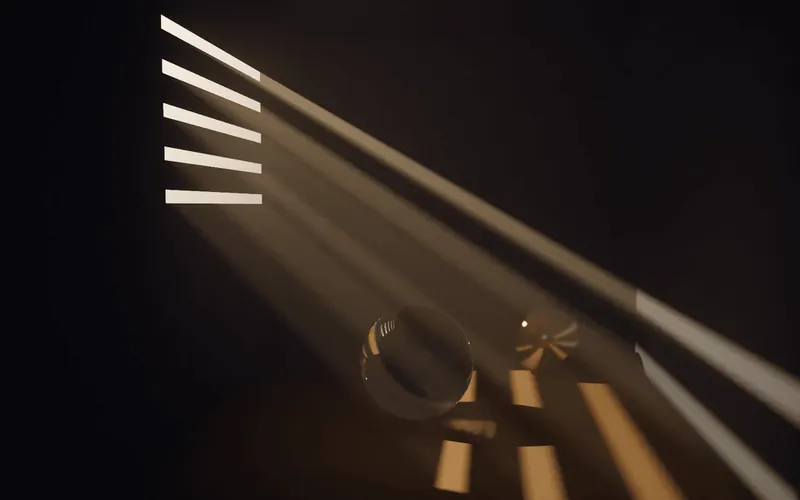
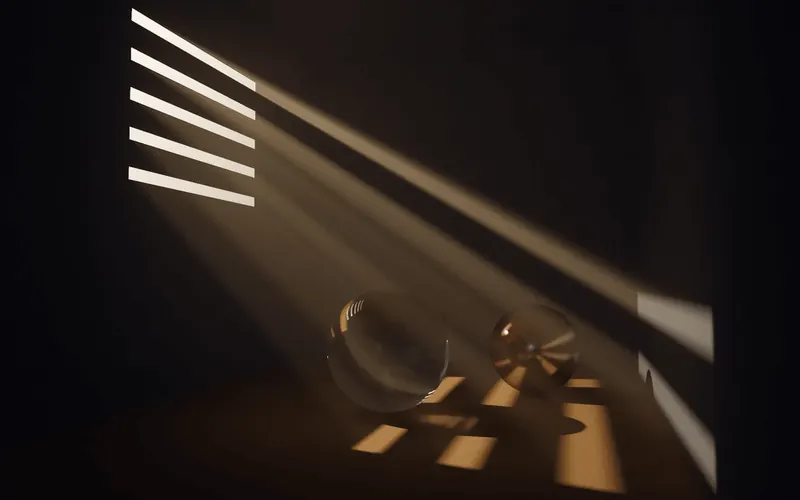
anotherRaytracer: new starting views for cornell, veach, shafts, caustics, mirrors and rgb
Each opens on the view Andrew picked: cornell, veach, caustics and rgb with
a little depth of field (0.004) focused on what he clicked; shafts with the
glass and copper balls moved into the beams; mirrors looking down the
corridor of reflections.

Scenes can set a size, which scales the lens and surface detail, for when
the starting camera's distance (the default) no longer matches the view the
scene was tuned with: mirrors and rgb keep their old scale.

Links whose settings, camera or edits match the defaults now tidy
themselves on load, so they drop out of the URL.

diff --git a/anotherRaytracer/scenes.js b/anotherRaytracer/scenes.js
@@ -130,6 +130,7 @@ const skyDome = (radius, center, brightness) => ({
  *   objects: Shape[],
  *   camera: {position: number[], target: number[], zoom: number, focus?: number},
  *   sky?: {sun: number[], haze?: number},
+ *   size?: number,
  *   defaults?: {fog?: number, fogForward?: number, fogBlue?: number, dof?: number, dispersion?: number, exposure?: number},
  * }} Scene
  * The camera orbits `target`, and starts focused on it, or `focus` away if
@@ -138,7 +139,9 @@ const skyDome = (radius, center, brightness) => ({
  * fog's density, the chance per unit of distance that light scatters off
  * it, and `dof` the lens size.
  * `sky` colors sky domes: as the real sky looks with the sun in direction
- * `sun`, and `haze` times as hazy as usual (see sky.js).
+ * `sun`, and `haze` times as hazy as usual (see sky.js). `size` scales the
+ * lens and surface detail; it defaults to the camera's distance from its
+ * target.
  */
 
 /** @type {() => Scene} */
@@ -181,7 +184,13 @@ function cornellScene() {
       sphere(10, [60, 65, 0], [0.5, 0.5, 0.5], DIFFUSE, 0.5, 30), // upper satin ball
       sphere(16, [20, 16, 160], [0.3, 0.3, 0.35], DIFFUSE, 0.6, 2000), // lower left polished ball
     ],
-    camera: {position: [50, 50, 350], target: [50, 33, 10], zoom: 0.5},
+    camera: {
+      position: [50, 50.014, 350],
+      target: [50, 33, 10],
+      zoom: 0.5,
+      focus: 262.872,
+    },
+    defaults: {dof: 0.004},
   };
 }
 
@@ -233,7 +242,13 @@ function veachScene() {
 
   return {
     objects,
-    camera: {position: eye, target: [0, 0.74, -1], zoom: 0.6},
+    camera: {
+      position: [0, 2.002, 20],
+      target: [0, 0.74, -1],
+      zoom: 0.6,
+      focus: 18.7,
+    },
+    defaults: {dof: 0.004},
   };
 }
 
@@ -276,15 +291,20 @@ function shaftsScene() {
     // Dim blue sky behind the camera, through the open front, so shadows
     // and fog outside the beams are cool
     sphere(30, [50, 60, 260], [0.8, 1.4, 3.2], LIGHT),
-    sphere(12, [45, 12, -20], [0.95, 0.95, 0.95], GLASS),
-    sphere(10, [75, 10, -60], [0.95, 0.64, 0.54], MIRROR, 0, 300), // brushed copper
+    sphere(12, [49.532, 12, -14.008], [0.95, 0.95, 0.95], GLASS),
+    sphere(10, [75.715, 10, -41.197], [0.95, 0.64, 0.54], MIRROR, 0, 300), // brushed copper
   ];
   // Blinds across the window, 5.5 tall with gaps of 2.5. Each gap lets in a
   // thin sheet of light, seen edge on from the front.
   for (let y = 40; y < 80; y += 8) objects.push(leftWall(y, y + 5.5, -50, 0));
   return {
     objects,
-    camera: {position: [60, 45, 110], target: [40, 35, -30], zoom: 0.8},
+    camera: {
+      position: [85.214, 26.04, 103.742],
+      target: [46.617, 32.276, -32.534],
+      zoom: 0.8,
+      focus: 149.874,
+    },
     defaults: {fog: 0.004},
   };
 }
@@ -312,7 +332,13 @@ function causticsScene() {
       sphere(3, [-22, 3, 18], [0.97, 0.97, 0.97], GLASS),
       sphere(6, [-32, 6, -10], [0.9, 0.9, 0.9], MIRROR),
     ],
-    camera: {position: [35, 45, 95], target: [0, 4, 10], zoom: 0.65},
+    camera: {
+      position: [35.026, 45.042, 94.969],
+      target: [0, 4, 10],
+      zoom: 0.65,
+      focus: 95.674,
+    },
+    defaults: {dof: 0.004},
   };
 }
 
@@ -352,8 +378,15 @@ function mirrorsScene() {
       sphere(7, [6, 7, 22], [0.97, 0.97, 0.97], GLASS),
       sphere(3, [-16, 3, 26], [0.2, 0.6, 0.3], DIFFUSE, 0.3, 500), // green
     ],
-    // Looking into the left mirror, orbiting a point inside the room
-    camera: {position: [20, 20, 55], target: [-5, 16, 27.5], zoom: 0.8},
+    // Orbiting a point inside the room
+    camera: {
+      position: [42.776, 20.835, 60.095],
+      target: [-5.472, 15.456, 28.498],
+      zoom: 0.8,
+    },
+    // The size of the first view the scene was tuned with, which sets the
+    // surface detail's scale
+    size: 37.4,
   };
 }
 
@@ -483,13 +516,17 @@ function rgbShadowsScene() {
       sphere(4, [16, 4, 14], [0.9, 0.9, 0.9], MIRROR),
     ],
     camera: {
-      position: [-82.95, 40.39, 47],
-      target: [7.507, 14.346, -9.059],
+      position: [-70.148, 23.137, 40.228],
+      target: [5.284, 14.904, -9.279],
       zoom: 0.6,
+      focus: 80.989,
     },
+    // The size of the first view the scene was tuned with, which sets the
+    // lens and surface detail's scale
+    size: 109.6,
     // The lights are each one primary color, so glass has no white light to
     // split into rainbows; dispersion would only add noise
-    defaults: {fog: 0.0004, dispersion: 0, exposure: -1.5, dof: 0.003},
+    defaults: {fog: 0.0004, dispersion: 0, exposure: -1.5, dof: 0.004},
   };
 }
 

diff --git a/anotherRaytracer/main.js b/anotherRaytracer/main.js
@@ -437,7 +437,8 @@ const loadScene = () => {
   // From the scene's own camera, not the current one, so zooming doesn't
   // change the bumps
   const {position, target} = scene.camera;
-  sceneSize = Math.hypot(...position.map((p, i) => p - target[i]));
+  sceneSize =
+    scene.size ?? Math.hypot(...position.map((p, i) => p - target[i]));
   detailScale = sceneSize / 300;
   objects = scene.objects.map((o) => ({...o}));
   selected = -1;
@@ -1467,6 +1468,9 @@ new ResizeObserver(resize).observe(canvas);
 loadScene();
 const urlEdits = urlParams.get('edits');
 if (urlEdits) loadEdits(urlEdits);
+// Drop anything in the URL that matches the defaults
+saveSettings();
+saveEdits();
 showEdit();
 const urlCamera = urlParams.get('camera')?.split('_').map(Number);
 if (urlCamera?.length === 7 && urlCamera.every(isFinite)) {
